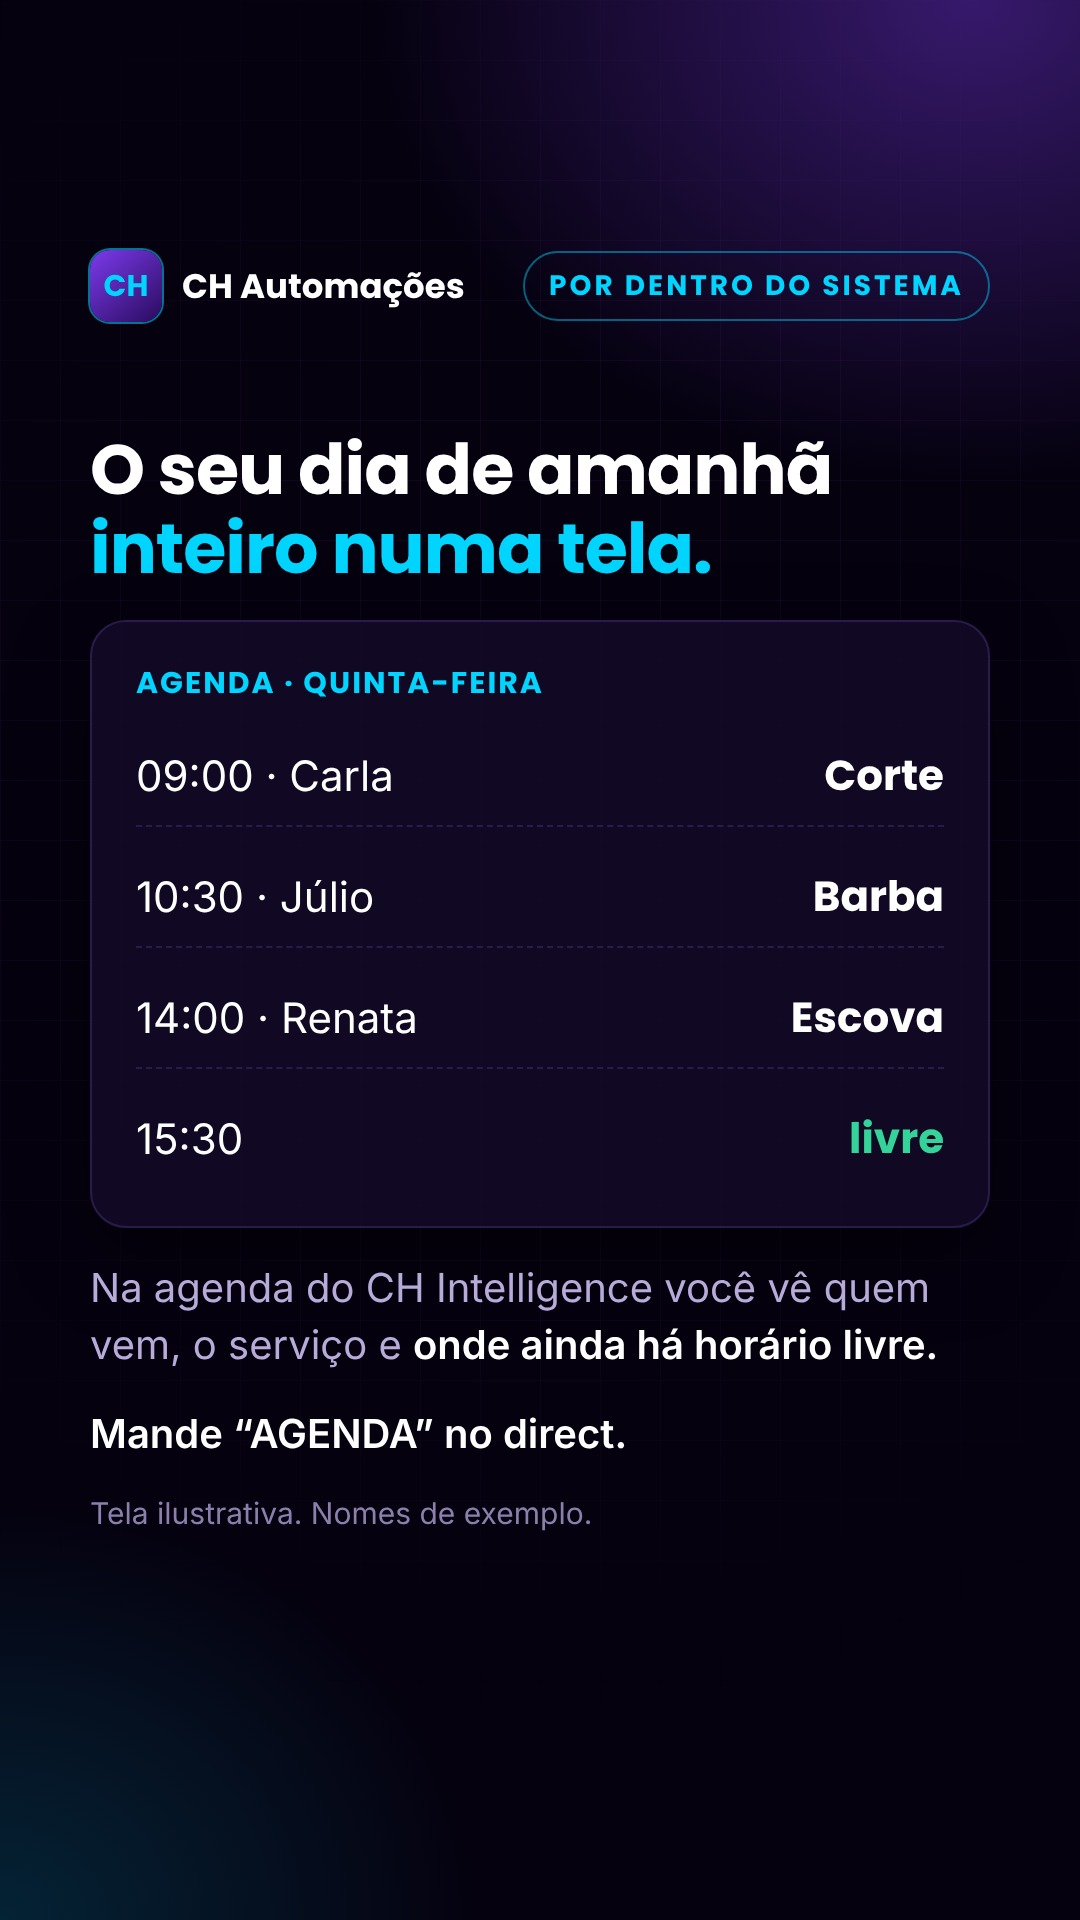
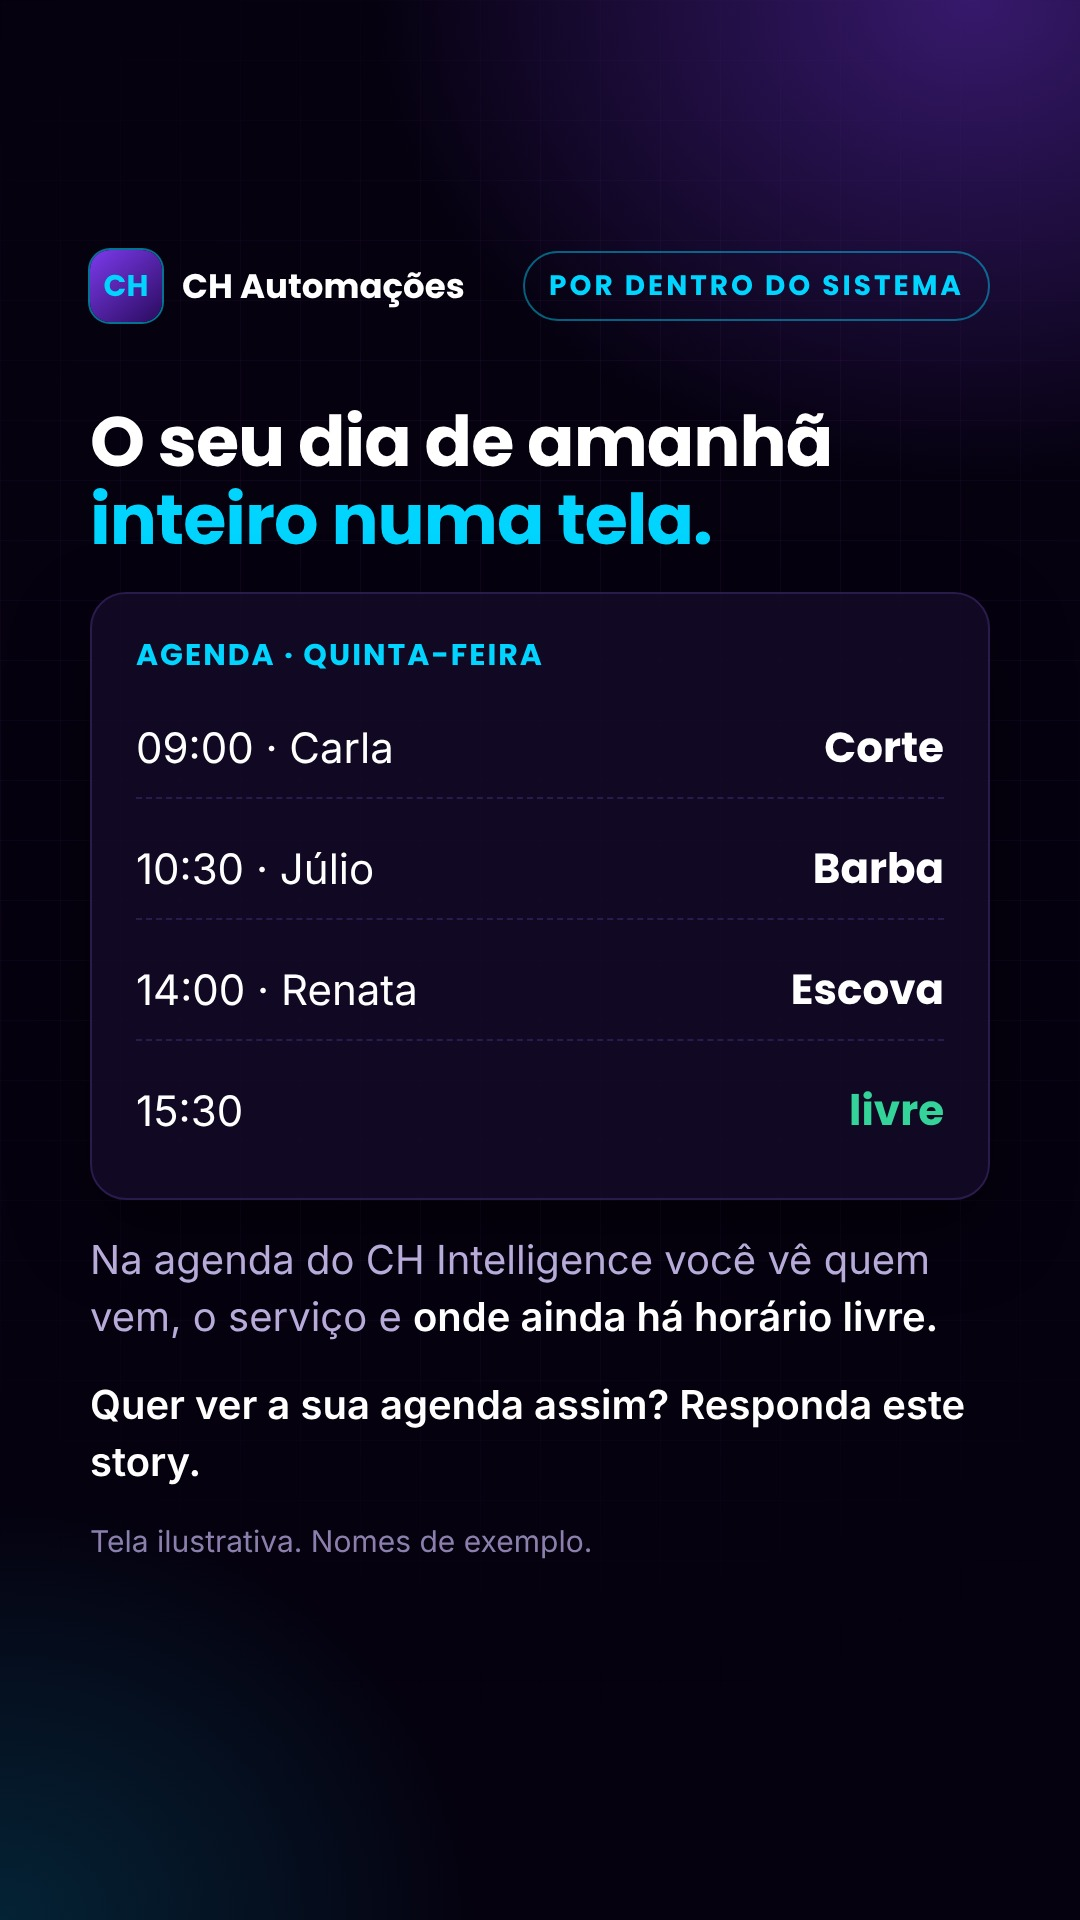
Stories: troca 'Mande PALAVRA no direct' por chamadas naturais (pedido do Caio)
Claude-Session: https://claude.ai/code/session_01LDjfSwbVCKA9yHqyWgXknV

Changed region(s): [[0.0611, 0.1875, 0.9167, 0.8125], [0.8861, 0.3125, 0.9167, 0.3438]]

diff --git a/modelos/stories_2026-11-23.html b/modelos/stories_2026-11-23.html
@@ -101,7 +101,7 @@ const S = {
       <div class="linha"><span>14:00 · Renata</span><b>Escova</b></div>
       <div class="linha"><span>15:30</span><b style="color:var(--verde)">livre</b></div></div>
     <p class="sub">Na agenda do CH Intelligence você vê quem vem, o serviço e <b>onde ainda há horário livre.</b></p>
-    <p class="sub"><b>Mande “AGENDA” no direct.</b></p>
+    <p class="sub"><b>Quer ver a sua agenda assim? Responda este story.</b></p>
     <p class="nota">Tela ilustrativa. Nomes de exemplo.</p></div>`,
   // QUINTA 26/11
   qui1: `${topo('Faz a conta')}<div class="meio">
@@ -112,7 +112,7 @@ const S = {
       <div class="linha"><span>Por dia</span><b>1 hora</b></div>
       <div class="linha"><span>Dias de trabalho no mês</span><b>26</b></div>
       <div class="linha total"><span>Por mês</span><b>26 horas</b></div></div>
-    <p class="sub">É mais de um dia inteiro só digitando. <b>Mande “TEMPO” no direct.</b></p>
+    <p class="sub">É mais de um dia inteiro só digitando. <b>A Thays responde essas perguntas por você.</b></p>
     <p class="nota">Valores de exemplo.</p></div>`,
   qui2: `${topo('Sua vez')}<div class="meio">
     <h2>Se sobrasse <em>1 hora por dia</em>, você usaria para quê?</h2>
@@ -125,7 +125,7 @@ const S = {
       <div class="bolha th">Oi! Temos sim, e é gratuita. Hoje tem turma às 19h30 ou amanhã às 7h. Qual fica melhor?<small>18:52</small></div>
       <div class="bolha cli">Amanhã 7h. E quanto é a mensalidade?<small>18:53</small></div>
       <div class="bolha th">O plano mensal é R$&nbsp;120. Sua aula experimental ficou marcada para amanhã às 7h 💪<small>18:53</small></div></div>
-    <p class="nota" style="font-size:34px">Conversa ilustrativa. Nomes e valores de exemplo.<br><b style="color:#fff">Tem academia ou estúdio? Mande “ACADEMIA” no direct.</b></p></div>`,
+    <p class="nota" style="font-size:34px">Conversa ilustrativa. Nomes e valores de exemplo.<br><b style="color:#fff">Tem academia ou estúdio? Responda este story.</b></p></div>`,
   sex2: `${topo('Indique e Ganhe')}<div class="meio">
     <h2>Conhece um dono de negócio <em>que não dá conta do WhatsApp?</em></h2>
     <p class="sub">Indique a CH. A gente apresenta sem compromisso e, se ele contratar, você ganha no PIX:</p>
@@ -133,7 +133,7 @@ const S = {
       <div class="linha"><span>Só o sistema<br><small style="font-size:30px;color:var(--mut)">CRM Solo ou Solo Pro</small></span><b style="white-space:nowrap">R$&nbsp;50</b></div>
       <div class="linha"><span>Thays ou combo</span><b style="white-space:nowrap">10% da implantação</b></div></div>
     <p class="sub">Pago em até 3 dias úteis depois que o indicado paga a implantação.</p>
-    <div class="cta">Mande “INDICO” no direct</div></div>`,
+    <div class="cta">Responda este story para indicar</div></div>`,
   // SÁBADO 28/11
   sab1: `${topo('Sites')}<div class="meio">
     <h2>Três coisas que o cliente procura no seu site <em>antes de chamar:</em></h2>
@@ -142,13 +142,13 @@ const S = {
       <div class="passo"><i>2</i>Serviços e horários de atendimento</div>
       <div class="passo"><i>3</i>Botão de WhatsApp fácil de achar</div></div>
     <p class="sub">A CH faz sites com a cara do seu negócio, <b>que levam o cliente direto ao seu WhatsApp.</b></p>
-    <div class="cta">Mande “PÁGINA” no direct</div></div>`,
+    <div class="cta">Veja os sites da CH · link na bio</div></div>`,
   // DOMINGO 29/11
   dom1: `${topo('Dica de domingo')}<div class="meio">
     <h1>Use o status do WhatsApp <em>como vitrine.</em></h1>
     <p class="sub">Quem tem o seu número salvo, e está salvo nos seus contatos, pode ver o seu status. Na segunda de manhã, publique:</p>
     <div class="card"><div class="passo"><i>1</i>Os horários livres da semana</div><div class="passo"><i>2</i>Uma foto de um trabalho recente</div><div class="passo"><i>3</i>Um convite: “responda aqui para marcar”</div></div>
-    <div class="cta">Mande “STATUS” no direct</div></div>`,
+    <div class="cta">Teste amanhã cedo</div></div>`,
 };
 document.getElementById('raiz').innerHTML = `<section class="story"><div class="grid"></div>${S[id]}</section>`;
 </script>

diff --git a/modelos/stories_log.md b/modelos/stories_log.md
@@ -35,10 +35,13 @@ Uma linha por story. Séries fixas por dia: seg = bastidores + pergunta; ter = d
 | 24/11 | 10h | 2026-11/stories_2026-11-23/ter1.jpg | Dica rápida | Respostas rápidas do WhatsApp Business (atalhos com /) | ATALHO |
 | 24/11 | 18h | 2026-11/stories_2026-11-23/ter2.jpg | Mito ou verdade | “Mandar áudio é o jeito mais prático de atender” (depende) | ÁUDIO |
 | 25/11 | 10h | 2026-11/stories_2026-11-23/qua1.jpg | Antes e depois | “Aceita Pix? Parcela no cartão?” | PAGAMENTO |
-| 25/11 | 18h | 2026-11/stories_2026-11-23/qua2.jpg | Por dentro do sistema | Agenda do dia numa tela | AGENDA |
-| 26/11 | 10h | 2026-11/stories_2026-11-23/qui1.jpg | Faz a conta | 30 perguntas repetidas x 2 min = 26 h/mês | TEMPO |
+| 25/11 | 18h | 2026-11/stories_2026-11-23/qua2.jpg | Por dentro do sistema | Agenda do dia numa tela | sem palavra (responda o story) |
+| 26/11 | 10h | 2026-11/stories_2026-11-23/qui1.jpg | Faz a conta | 30 perguntas repetidas x 2 min = 26 h/mês | sem palavra |
 | 26/11 | 18h | 2026-11/stories_2026-11-23/qui2.jpg | Sua vez | Se sobrasse 1 hora por dia, usaria para quê? (enquete) | enquete manual (Caio) |
-| 27/11 | 10h | 2026-11/stories_2026-11-23/sex1.jpg | Atendimento na prática | Conversa ilustrativa academia, aula experimental | ACADEMIA |
-| 27/11 | 18h | 2026-11/stories_2026-11-23/sex2.jpg | Indique e Ganhe | Conhece um dono que não dá conta do WhatsApp? | INDICO |
-| 28/11 | 11h | 2026-11/stories_2026-11-23/sab1.jpg | Sites | Três coisas que o cliente procura no seu site | PÁGINA |
-| 29/11 | 18h | 2026-11/stories_2026-11-23/dom1.jpg | Dica de domingo | Status do WhatsApp como vitrine | STATUS |
+| 27/11 | 10h | 2026-11/stories_2026-11-23/sex1.jpg | Atendimento na prática | Conversa ilustrativa academia, aula experimental | sem palavra (responda o story) |
+| 27/11 | 18h | 2026-11/stories_2026-11-23/sex2.jpg | Indique e Ganhe | Conhece um dono que não dá conta do WhatsApp? | sem palavra (responda o story) |
+| 28/11 | 11h | 2026-11/stories_2026-11-23/sab1.jpg | Sites | Três coisas que o cliente procura no seu site | sem palavra (link na bio) |
+| 29/11 | 18h | 2026-11/stories_2026-11-23/dom1.jpg | Dica de domingo | Status do WhatsApp como vitrine | sem palavra |
+
+
+A partir de 25/11/2026 (pedido do Caio) os stories não usam mais “Mande PALAVRA no direct”: a chamada é variada e natural (responda este story, link na bio, pergunta para o público).
